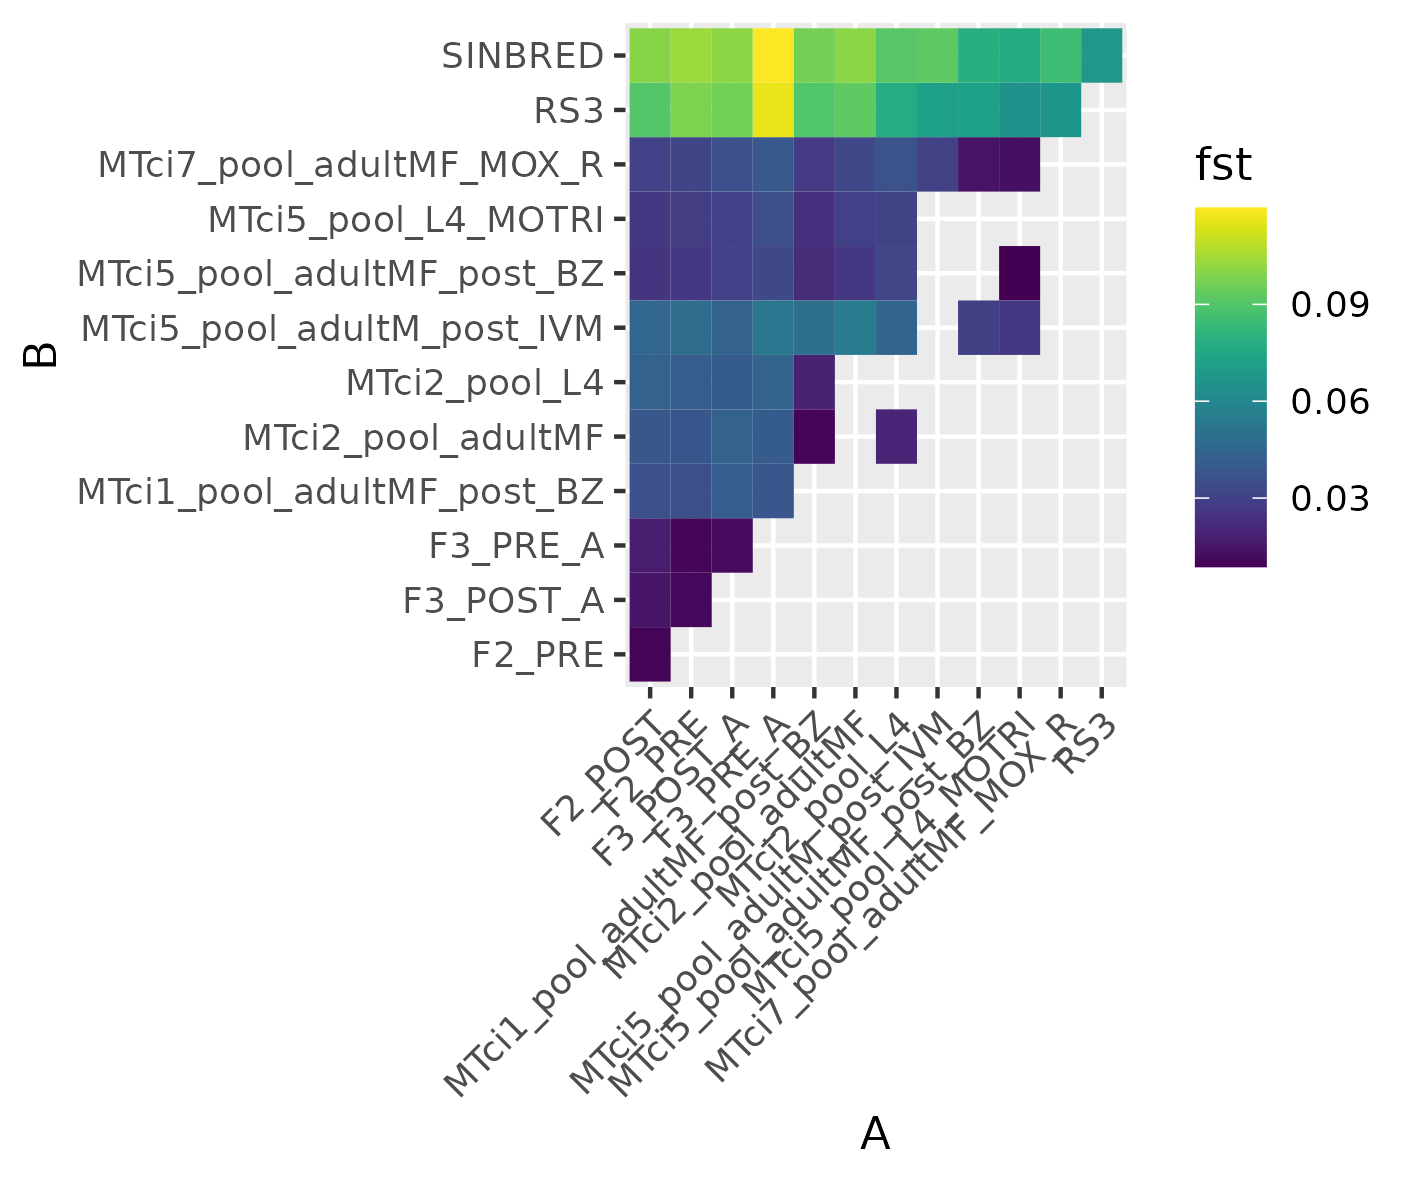
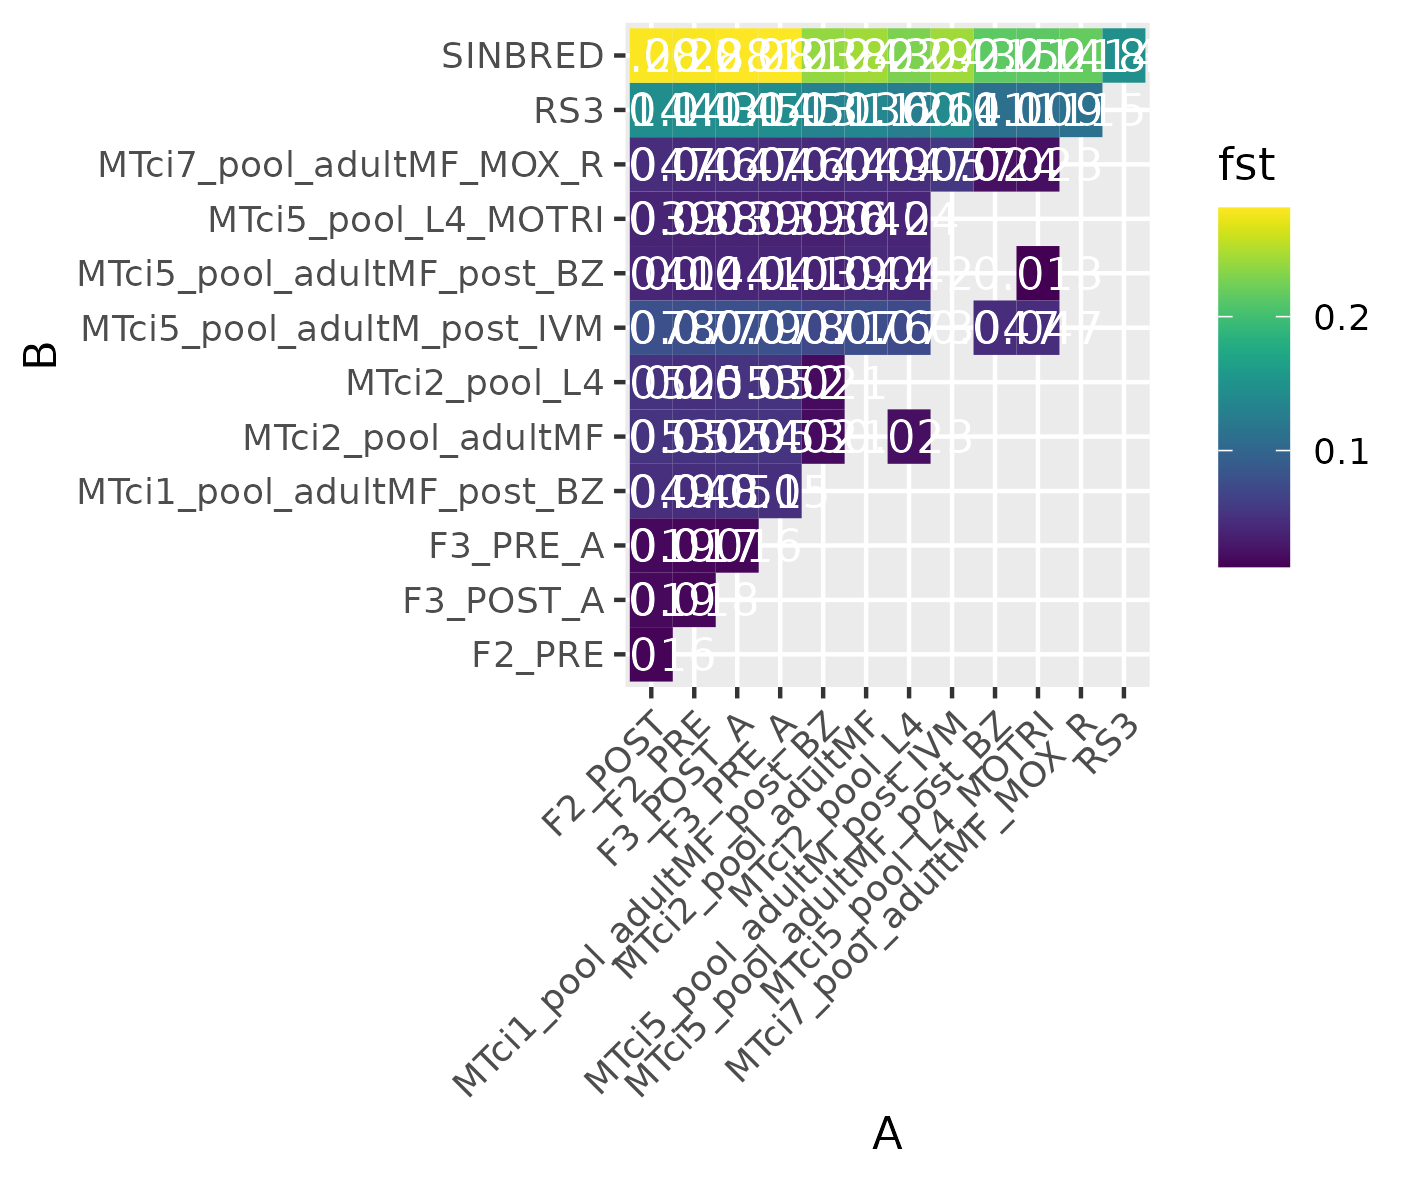
update PCA and Fst heatmap code

diff --git a/03_code/tcircumcincta_genome.genomewide-drug-resistance-analyses.md b/03_code/tcircumcincta_genome.genomewide-drug-resistance-analyses.md
@@ -184,22 +184,31 @@ bsub.py 1 grendalf_all_fst \
 --sam-path F3_PRE_A.bam"
 
 
-head tc_strains_poolseqfst.csv | sed -e 's/\.1:/:/g' -e 's/\.1$//g' -e 's/\.1\t/\t/g' -e  's/\-/_/g' > test.fst
+cat tc_strains_poolseqfst.csv | head -n1 | sed -e 's/\.1//g' -e  's/\-/_/g' > header
+cat tc_strains_poolseqfst.csv | grep -v "chrom" > data
 
-data <- read.delim("test.fst")
+cat header data > tc_strains_poolseqfst.clean.txt
+
+
+library(tidyverse)
+library(viridis)
+
+data <- read.delim("tc_strains_poolseqfst.clean.txt", sep="\t")
 data <- data %>% filter(., grepl("tci2_wsi3.0_chr", chrom)) %>% 
     filter(., !grepl("tci2_wsi3.0_chrX", chrom))  %>% 
-    filter(., !grepl("tci2_wsi3.0_chr_mtDNA", chrom)) %>% 
-    filter_all(all_vars(!is.infinite(.))) %>% 
-    filter_all(all_vars(!is.nan(.)))
+    filter(., !grepl("tci2_wsi3.0_chr_mtDNA", chrom)) %>%
+    select(-chrom, -start, -end, -snps)
+    
 
-data2 <- head(data) %>% summarise(across(5:82, mean))
-data3 <- head(data2) %>% gather(key="group", value="fst", 1:78)
+data2 <- data %>% summarise(across(where(is.numeric), ~ mean(.x, na.rm = TRUE)))
+
+data3 <- data2 %>% gather(key="group", value="fst", 1:78)
 data4 <- data3 %>% separate_wider_delim(group, ".", names = c("A", "B"))
 
 
 ggplot(data4, aes(A, B, fill=fst)) + 
     geom_tile() + 
+    geom_text(aes(label=round(fst, digits = 3)), colour="white") +
     theme(axis.text.x = element_text(angle = 45, hjust=1)) +
     scale_fill_viridis()
 
